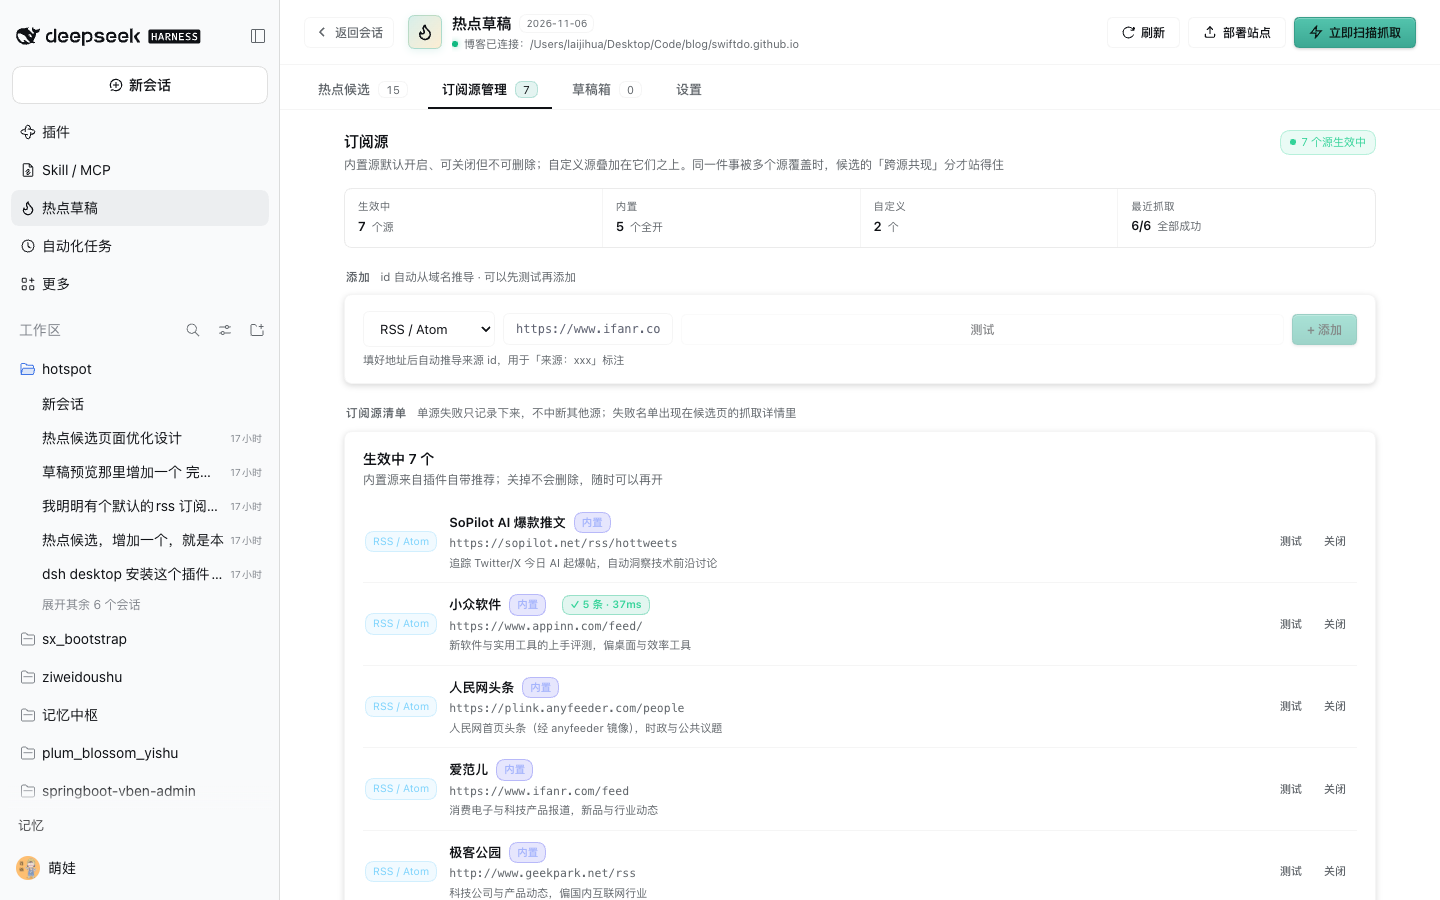
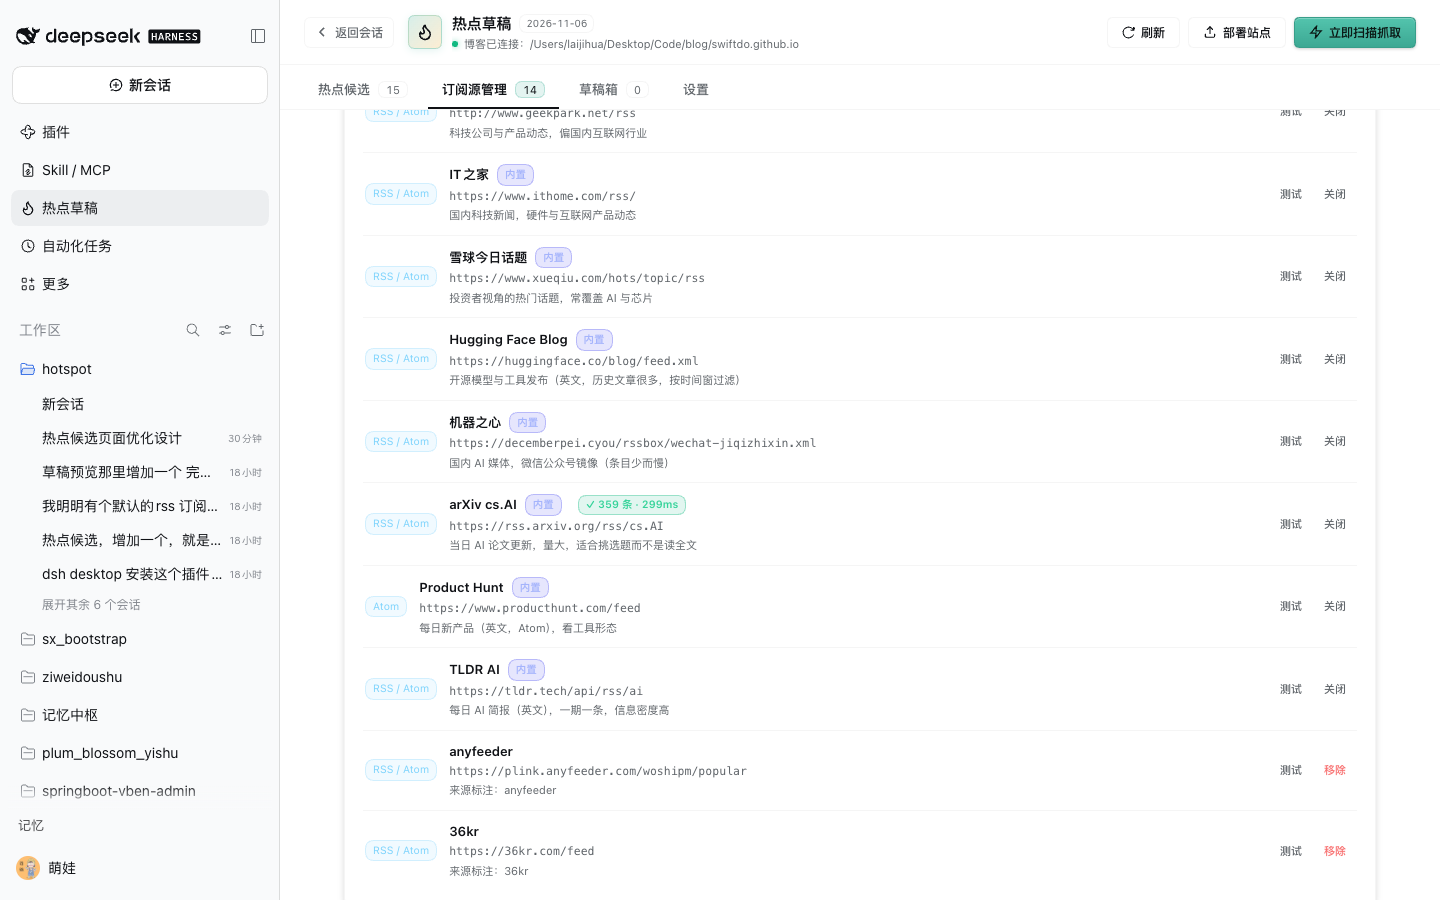
feat: 内置源扩到 12 个，修推导 id 超长被拒
新增 7 个内置源（都先在真机上用 /api/sources/test 验过能抓）：
IT之家、雪球今日话题、Hugging Face Blog、机器之心（微信公众号镜像）、
arXiv cs.AI、Product Hunt（Atom）、TLDR AI。

- 真机整轮扫描：14 个源 14/14 成功，542 条原文、去重后 540、候选 15 条
- 36氪仍然没放：直连是火山引擎人机校验页，镜像也是 HTML（README 已写明）
- README 补了「量大不等于候选多」：arXiv 一天三百多条、HF 历史近九百条都会进
  当天 raw，但候选仍按 rank.limit 截断 —— 这些源的用处是选题面宽，不是候选变多
- 订阅源截图按新的 12 个内置源重拍

顺带修一个真 bug：deriveSourceId 没按接口的 32 字符上限截断，
`decemberpei.cyou/rssbox/wechat-jiqizhixin.xml` 推导出 35 字符的 id，
添加时被 validateSource 拒掉（面板上表现为「测试失败」且没有原因）。
现在截断并去掉尾部连字符，加后缀也留出空间；补了对应的回归测试。

diff --git a/src/core/sources.js b/src/core/sources.js
@@ -49,6 +49,55 @@ export const BUILTIN_SOURCES = [
     url: 'http://www.geekpark.net/rss',
     description: '科技公司与产品动态，偏国内互联网行业',
   },
+  {
+    id: 'ithome',
+    name: 'IT之家',
+    kind: 'rss',
+    url: 'https://www.ithome.com/rss/',
+    description: '国内科技新闻，硬件与互联网产品动态',
+  },
+  {
+    id: 'xueqiu-hot',
+    name: '雪球今日话题',
+    kind: 'rss',
+    url: 'https://www.xueqiu.com/hots/topic/rss',
+    description: '投资者视角的热门话题，常覆盖 AI 与芯片',
+  },
+  {
+    id: 'huggingface-blog',
+    name: 'Hugging Face Blog',
+    kind: 'rss',
+    url: 'https://huggingface.co/blog/feed.xml',
+    description: '开源模型与工具发布（英文，历史文章很多，按时间窗过滤）',
+  },
+  {
+    id: 'jiqizhixin',
+    name: '机器之心',
+    kind: 'rss',
+    url: 'https://decemberpei.cyou/rssbox/wechat-jiqizhixin.xml',
+    description: '国内 AI 媒体，微信公众号镜像（条目少而慢）',
+  },
+  {
+    id: 'arxiv-cs-ai',
+    name: 'arXiv cs.AI',
+    kind: 'rss',
+    url: 'https://rss.arxiv.org/rss/cs.AI',
+    description: '当日 AI 论文更新，量大，适合挑选题而不是读全文',
+  },
+  {
+    id: 'producthunt',
+    name: 'Product Hunt',
+    kind: 'atom',
+    url: 'https://www.producthunt.com/feed',
+    description: '每日新产品（英文，Atom），看工具形态',
+  },
+  {
+    id: 'tldr-ai',
+    name: 'TLDR AI',
+    kind: 'rss',
+    url: 'https://tldr.tech/api/rss/ai',
+    description: '每日 AI 简报（英文），一期一条，信息密度高',
+  },
 ];
 
 /** 内置源 id 集合：判断「这个 id 能不能被自定义源占用」。 */
@@ -133,6 +182,16 @@ const NOISE_SEGMENTS = new Set([
   'feed', 'feeds', 'rss', 'atom', 'index', 'default', 'xml', 'v2', 'v1', 'all', 'latest', 'home',
 ]);
 
+/** 与 validateSource 的上限一致：id 超过 32 个字符就会被接口拒掉。 */
+const MAX_ID_LENGTH = 32;
+
+/** 截到上限并去掉尾部连字符：`decemberpei-rssbox-wechat-jiqizhixin` 这种长域名不能原样当 id。 */
+function clipId(value) {
+  const text = String(value ?? '');
+  if (text.length <= MAX_ID_LENGTH) return text;
+  return text.slice(0, MAX_ID_LENGTH).replace(/-+$/g, '');
+}
+
 function slug(value, max = 40) {
   return String(value ?? '')
     .toLowerCase()
@@ -187,11 +246,13 @@ export function deriveSourceId(source = {}, taken = []) {
     base = [slug(site), ...segments.slice(0, 2)].filter(Boolean).join('-');
   }
 
-  const root = base || 'source';
+  const root = clipId(base || 'source');
   if (!used.has(root)) return root;
   for (let i = 2; i < 100; i += 1) {
-    const candidate = `${root}-${i}`;
+    const suffix = `-${i}`;
+    // 加后缀也要留在 32 字符内，否则推导出来的 id 会被校验拒掉
+    const candidate = `${clipId(root.slice(0, MAX_ID_LENGTH - suffix.length))}${suffix}`;
     if (!used.has(candidate)) return candidate;
   }
-  return `${root}-${Date.now().toString(36).slice(-4)}`;
+  return clipId(`${root}-${Date.now().toString(36).slice(-4)}`);
 }

diff --git a/test/sources.test.js b/test/sources.test.js
@@ -139,3 +139,18 @@ test('resolveSources：配置里留着内置源的手工复制时，只生效一
   assert.ok(ids.includes('mine'));
   assert.deepEqual(customSources(config).map((s) => s.id), ['mine']);
 });
+
+test('deriveSourceId：超长域名/路径截到 32 字符内，加后缀也不超', () => {
+  const long = deriveSourceId({ kind: 'rss', url: 'https://decemberpei.cyou/rssbox/wechat-jiqizhixin.xml' }, []);
+  assert.ok(long.length <= 32, `推导出的 id 超过 32 字符会被接口拒掉：${long}`);
+  assert.match(long, /^[a-z0-9][a-z0-9-]*$/, 'id 只能用允许的字符');
+  assert.ok(!long.endsWith('-'), '不能以连字符结尾');
+
+  // 撞名后加后缀也要留在上限内
+  const collided = deriveSourceId(
+    { kind: 'rss', url: 'https://decemberpei.cyou/rssbox/wechat-jiqizhixin.xml' },
+    [long],
+  );
+  assert.ok(collided.length <= 32, `加后缀后超长：${collided}`);
+  assert.notEqual(collided, long);
+});

diff --git a/README.md b/README.md
@@ -217,8 +217,17 @@ node src/cli.js doctor --online              # 自检：配置 / 目标项目 / 
 | `people-headlines` | `https://plink.anyfeeder.com/people` | 人民网头条（anyfeeder 镜像） |
 | `ifanr` | `https://www.ifanr.com/feed` | 爱范儿 |
 | `geekpark` | `http://www.geekpark.net/rss` | 极客公园 |
+| `ithome` | `https://www.ithome.com/rss/` | IT之家 |
+| `xueqiu-hot` | `https://www.xueqiu.com/hots/topic/rss` | 雪球今日话题 |
+| `huggingface-blog` | `https://huggingface.co/blog/feed.xml` | Hugging Face Blog（英文） |
+| `jiqizhixin` | `https://decemberpei.cyou/rssbox/wechat-jiqizhixin.xml` | 机器之心（微信公众号镜像） |
+| `arxiv-cs-ai` | `https://rss.arxiv.org/rss/cs.AI` | arXiv cs.AI（当日论文） |
+| `producthunt` | `https://www.producthunt.com/feed` | Product Hunt（Atom，英文） |
+| `tldr-ai` | `https://tldr.tech/api/rss/ai` | TLDR AI 每日简报（英文） |
 
 > 36氪（`https://36kr.com/feed`）没进内置池：直连返回的是火山引擎的人机校验页（HTML），服务端拿不到 RSS，anyfeeder 的 `36kr` 镜像同样是 HTML。放进来的话每次扫描都会多一条「抓取失败」。
+>
+> **量大不等于候选多**。arXiv cs.AI 一天三百多条、Hugging Face 的历史文章近九百条，它们都会进当天 raw（`sinceHours` 只挡超过时间窗的），但候选仍按 `rank.limit`（默认 15）截断 —— 这些源的用处是「选题面宽」，不是「候选变多」。想压掉噪音就把它们的 `keywords` / 黑名单调严，或者直接在面板里关掉。
 
 **自定义源不用填 id**：面板会从域名推导（`www.ifanr.com/feed` → `ifanr`、`plink.anyfeeder.com/people` → `anyfeeder-people`、GitHub Release `apple/swift` → `apple-swift`、HN → `hn`），撞上已有 id 自动加 `-2`。id 只用于「来源：xxx」标注，推导结果在表单里只读展示。**每条源都能单独测连通性**：点「测试」就地抓一次，行内显示 `✓ 12 条 · 380ms` 或失败原因，不入库、不改配置。
 
